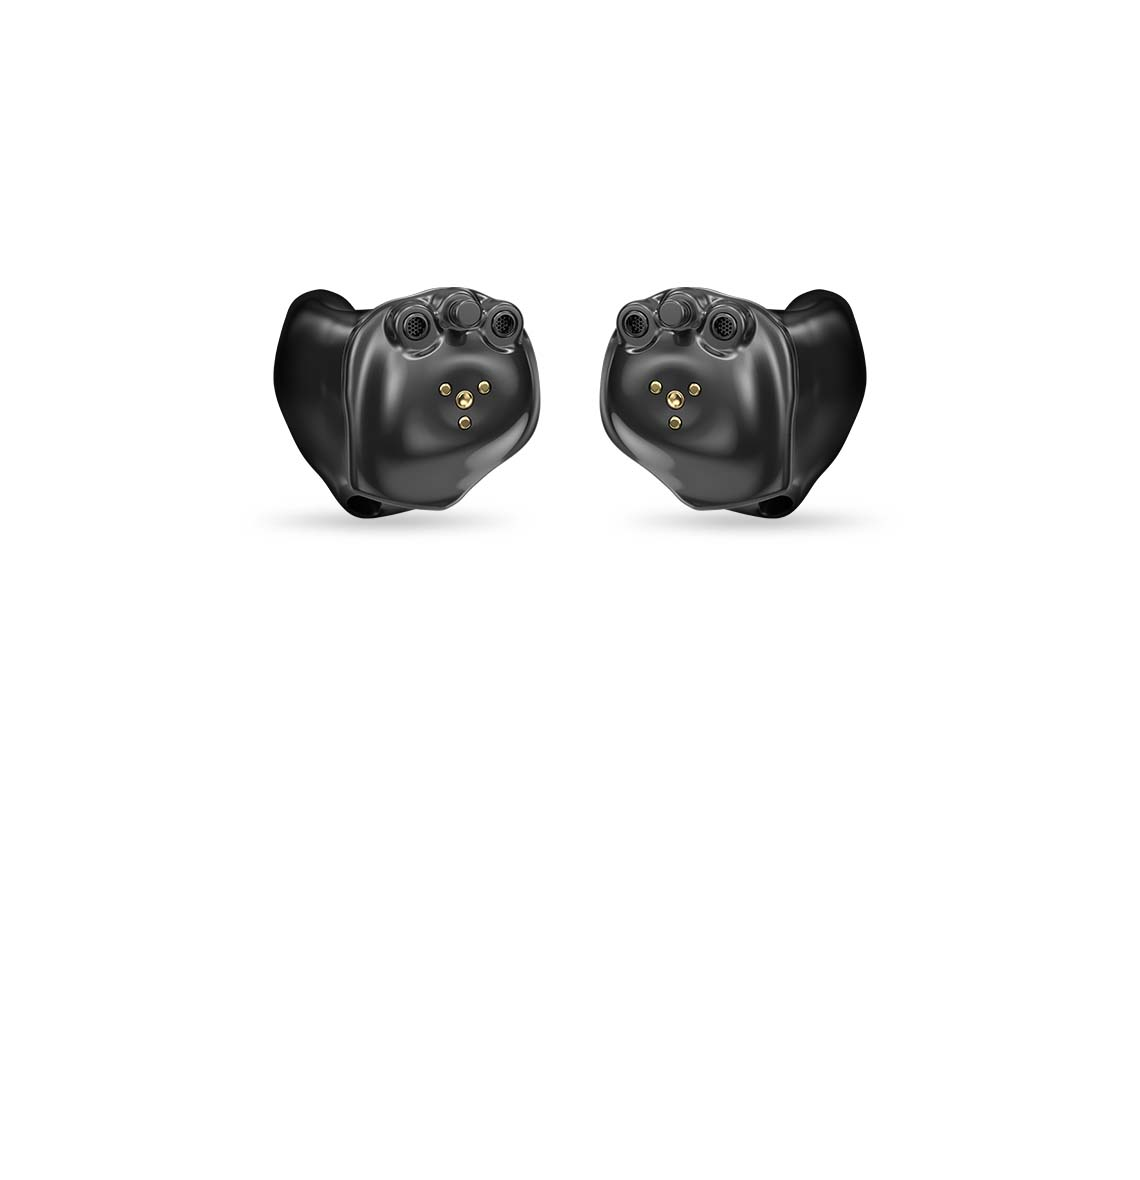
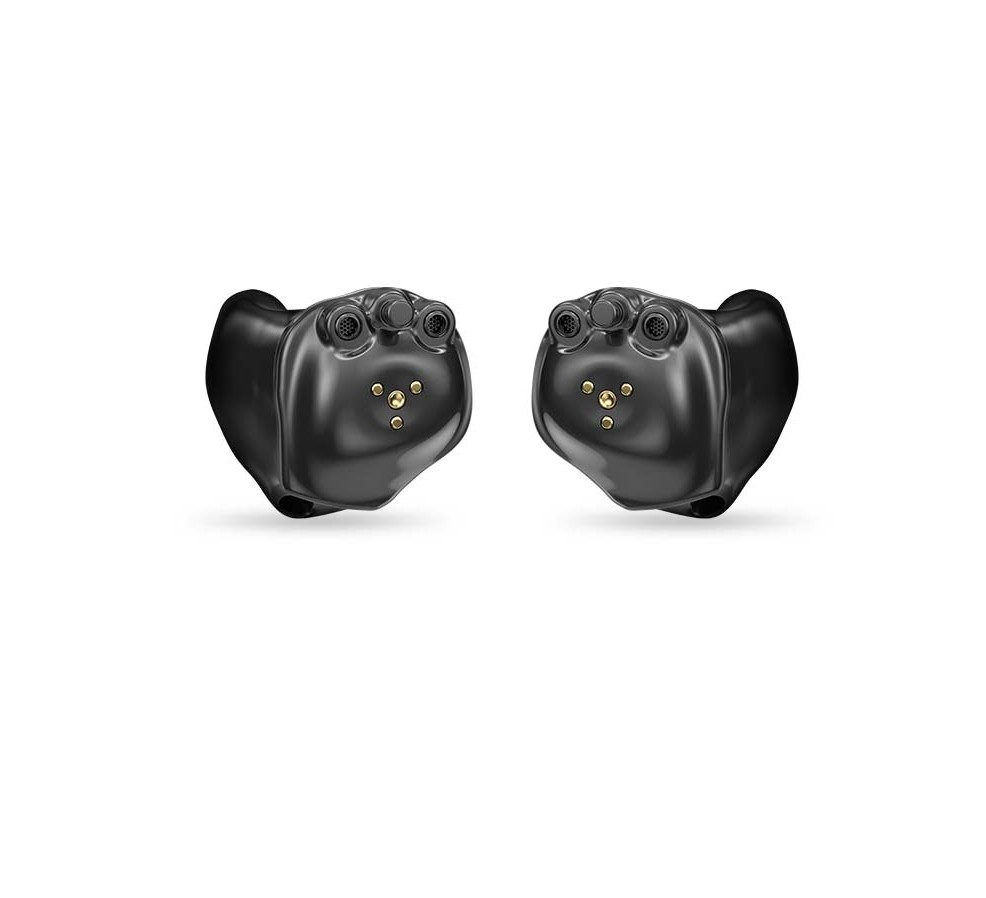
"new change"

Changed region(s): [[0.5172, 0.2183, 0.8215, 0.5924], [0.1826, 0.2183, 0.4868, 0.5924]]

diff --git a/frontend/src/pages/Home.jsx b/frontend/src/pages/Home.jsx
@@ -359,11 +359,12 @@ function Home() {
                     About Naavika Hearing
                   </h2>
                   <p className="text-gray-600 text-lg leading-relaxed">
-                    Hear Solutions, based on Namma Bangalore, delivers premier
-                    hearing health care through our centers. Our top-rated
-                    professionals offers expert advice on hearing loss
-                    diagnosis,the latest hearing aid technology, and
-                    comprehensive after care services.
+                    Naavika Hearing, founded by <b>Abhishek Gowda</b>, alumnus of the prestigious <b>All India Institute Of Speech and Hearing(AIISH),</b>is built on one belief-Hearing care should be personal and compassionate.
+                    <br />
+                    We don't just fit hearing aids . We listen, with advanced diagnostics and clinical precision, we restore confidence, connection, and the joy of everyday sounds.
+                    <br />
+                    At Naavika Hearing, excellence is our standard- and every patient is family.
+
                   </p>
                   <div className="space-y-4">
                     <div className="flex gap-4">